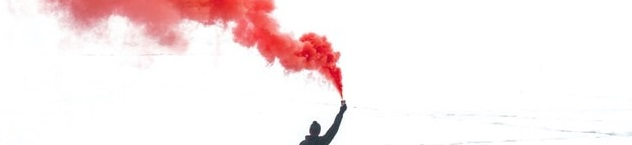
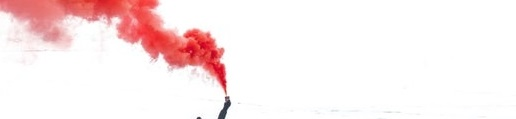
Fix: modified picture, edited CSS

diff --git a/css/style.css b/css/style.css
@@ -185,7 +185,7 @@ h1, .topic-first-sen, .topic-img-card {
 }
 
 .communication-bg {
-    background-image: url(/../HistoryOfTheInternet/images/uprising.jpg);
+    background-image: url(/../HistoryOfTheInternet/images/uprising_bg.jpg);
     background-repeat: no-repeat;
     background-position: center;
     background-size: cover;
